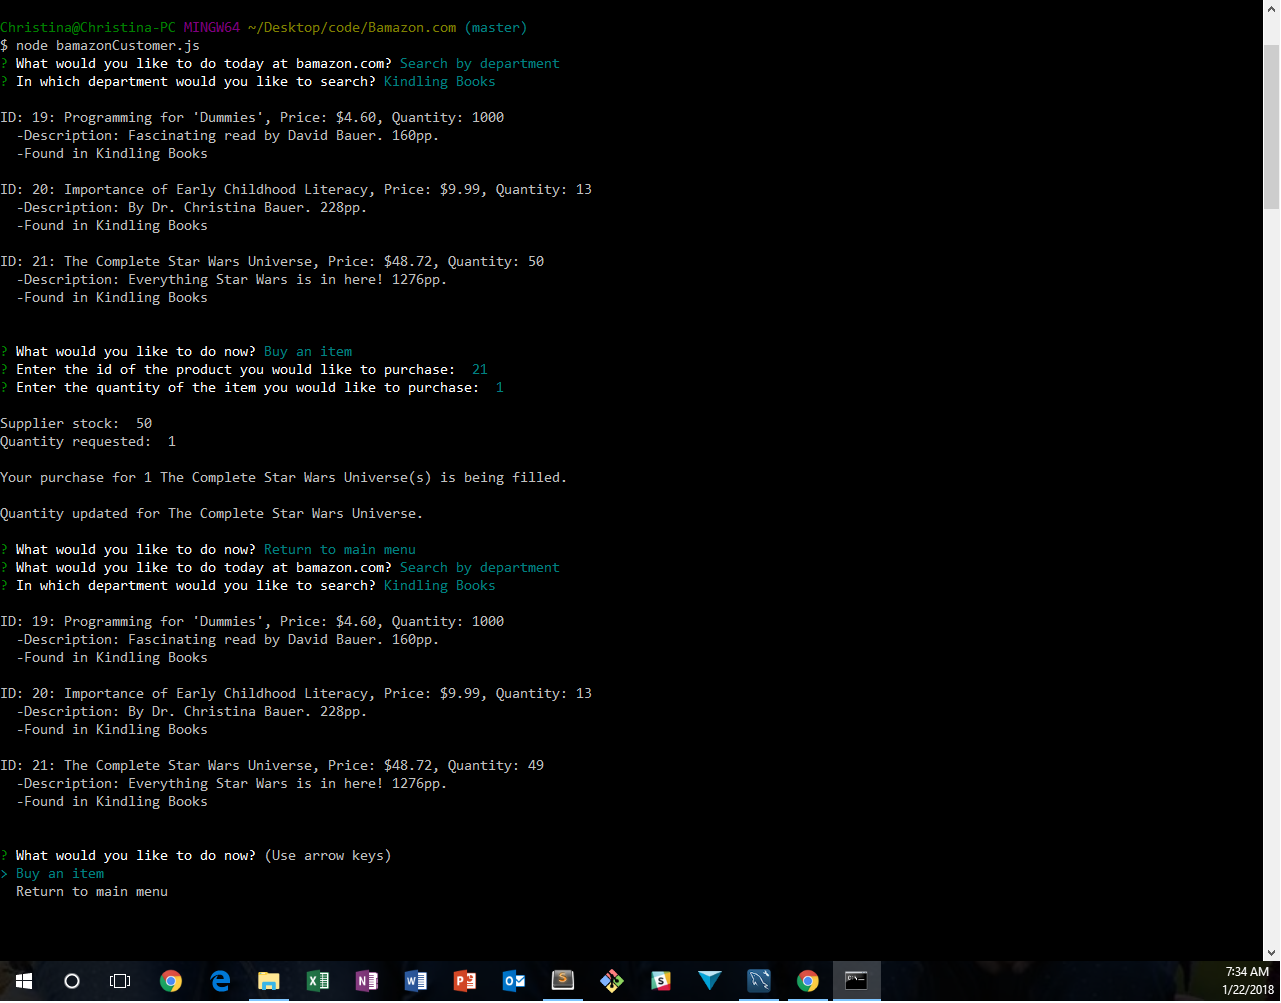
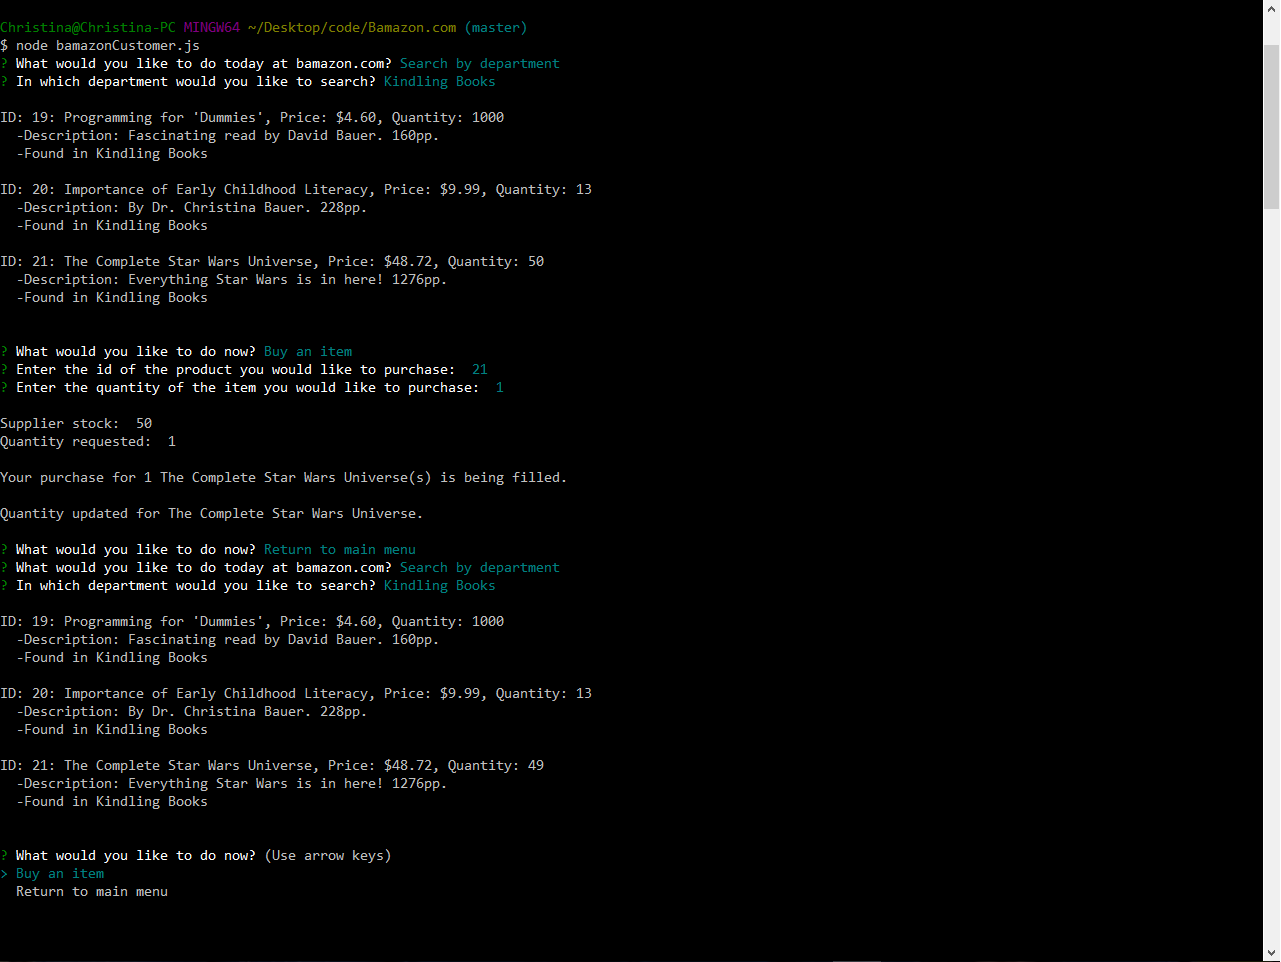
challenge #3 working with npm cli-table

diff --git a/bamazonCustomer.js b/bamazonCustomer.js
@@ -11,22 +11,36 @@ var connection = mysql.createConnection(
 // var departments = ["Toys/Hobbies", "Electronics", "Outdoors", "Men's Clothing", "Women's Clothing",
 //                     "Industrial/Scientific", "Kindling Books"];
 
-var departments = [];  //might need module "promise-mysql"
+var depts = [];  //might need module "promise-mysql"
+var prods = [];
 
 function listDepartments() {
-  connection.query("SELECT DISTINCT department_name FROM products", function(err, res) {
+  connection.query("SELECT department_name FROM departments", function(err, res) {
     if (err) throw err;
     for (var i = 0; i < res.length; i++) {
       // console.log(res[i].department_name)
-      departments.push(res[i].department_name);
+      depts.push(res[i].department_name);
     }
-    // console.log("departments: ", departments);
+    // console.log("depts: ", depts);
   });
-  // console.log("departments: ", departments);
+  // console.log("depts: ", depts);
+}
+
+function listProductIds() {
+  connection.query("SELECT item_id FROM products", function(err, res) {
+    if (err) throw err;
+    for (var i = 0; i < res.length; i++) {
+      // console.log(res[i].department_name)
+      prods.push(res[i].item_id);
+    }
+    // console.log("depts: ", depts);
+  });
+  // console.log("depts: ", depts);
 }
 
 function mainMenu() {
-  console.log("departmentsMainMenu: ", departments);
+  // console.log("prods: ", prods);
+  // console.log("departmentsMainMenu: ", depts);
   inquirer
   .prompt([
     {
@@ -72,7 +86,7 @@ function searchDepartment() {
     {
       type: "list",
       message: "In which department would you like to search?",
-      choices: departments,
+      choices: depts,
       name: "departmentChoice"
     }
   ])
@@ -113,7 +127,7 @@ function searchPriceRange() {
     {
       type: "input",
       message: "Enter the lowest price to search with: ",
-      name: "lowPrice"
+      name: "lowPrice",
     },
     {
       type: "input",
@@ -162,7 +176,15 @@ function buyProduct() {
     {
       type: "input",
       message: "Enter the id of the product you would like to purchase: ",
-      name: "productID"
+      name: "productID",
+      validate: function(input) {
+        var done = this.async();
+        if (prods.indexOf(parseInt(input)) < 0) {
+          done("Please enter a valid product ID.");
+           return;
+        }
+        done(null, true);
+      }
     },
     {
       type: "input",
@@ -176,17 +198,18 @@ function buyProduct() {
       console.log("\nSupplier stock: ", res[0].stock_quantity);
       console.log("Quantity requested: ", inquirerResponse.quantity + "\n");
       if (err) throw err;
-      if (res[0].stock_quantity >= inquirerResponse.quantity) {
+      if (parseInt(res[0].stock_quantity) >= parseInt(inquirerResponse.quantity)) {
         var newQuantity = res[0].stock_quantity - inquirerResponse.quantity;
         console.log("Your purchase for " + inquirerResponse.quantity + " " + res[0].product_name + "(s) is being filled.");
-        var sale = (res[0].price * inquirerResponse.quantity).toFixed(2);
+        var sale = res[0].price.toFixed(2) * parseInt(inquirerResponse.quantity);
         console.log("One click ordering has charged your card for $" + sale);
         updateProduct(newQuantity, inquirerResponse.productID, res[0].product_name);
+        var newSale = res[0].product_sales + sale;
+        updateSales(newSale, inquirerResponse.productID, res[0].product_name);
       } else {
         console.log("Insufficient Quantity.");
         mainOrBuy();
       }
-      
     });
   });
 }
@@ -205,6 +228,25 @@ function updateProduct(newQuantity, productID, productName) {
     function(err, res) {
       if (err) throw err;
       console.log("\nQuantity updated for " + productName + ".\n");
+      // mainOrBuy();
+    }
+  );
+}
+
+function updateSales(sale, productID, productName) {
+  connection.query(
+    "UPDATE products SET ? WHERE ?",
+    [
+      {
+        product_sales: sale
+      },
+      {
+        item_id: productID
+      }
+    ],
+    function(err, res) {
+      if (err) throw err;
+      console.log("Product sales updated for " + productName + ".\n");
       mainOrBuy();
     }
   );
@@ -220,5 +262,6 @@ function renderProducts(data) {
   console.log("\n");
 }
 
-listDepartments();
+listProductIds();
+listDepartments();  //Run listDepartments to populate the choices for departments before mainMenu
 mainMenu();

diff --git a/bamazonCFO.js b/bamazonCFO.js
@@ -1,0 +1,122 @@
+require("dotenv").config();
+var mysql = require("mysql");
+var inquirer = require("inquirer");
+var keys = require("./keys.js");
+var Table = require("cli-table");
+
+var table = new Table({
+    head: ['ID', 'Department', 'Overhead Costs', 'Sales', 'Total Profit']
+  , colWidths: [10, 30, 20, 20, 20]
+});
+
+// create the connection information for the sql database
+var connection = mysql.createConnection(
+	keys.mysqlKeys
+);
+
+var depts = [];  //might need module "promise-mysql"
+
+function listDepartments() {
+	// depts = [];  //Start with an empty array so "All Departments" can be added to the end
+  connection.query("SELECT department_name FROM departments", function(err, res) {
+    if (err) throw err;
+    // console.log("res.length: ", res.length);
+    for (var i = 0; i < res.length; i++) {
+      // console.log(res[i].department_name)
+      depts.push(res[i].department_name);
+    }
+    // depts.push("All Departments");
+    // console.log("depts: ", depts);
+  });
+  // console.log("depts: ", depts);
+}
+
+function mainMenu() {
+  inquirer
+  .prompt([
+    {
+      type: "list",
+      message: "What would you like to do?",
+      choices: ["View Product Sales by Department", "Create New Department", "Exit"],
+      name: "menuChoice"
+    }
+  ])
+  .then(function(inquirerResponse) {
+    switch (inquirerResponse.menuChoice) {
+      case "View Product Sales by Department":
+        viewSales();
+        break;
+      case "Create New Department":
+        newDepartment();
+        break;
+      case "Exit":
+        if (connection) connection.end();
+        console.log("\nConnection to database terminated.");
+        return;
+    }
+  });
+}
+
+function viewSales() {
+  connection.query('SELECT departments.department_id AS ID, departments.department_name ' +
+                      'AS Department, departments.over_head_costs AS "Overhead Costs", ' +
+                      'SUM(products.product_sales) AS Sales FROM departments, products ' +
+                      'WHERE departments.department_name = products.department_name ' +
+                      'GROUP BY Department ORDER BY (ID);', function(err, res) {
+    if (err) throw err;
+    // console.log(res);
+    renderSales(res);
+    mainMenu();
+  });   
+}
+
+function newDepartment() {
+	inquirer
+	.prompt([
+		{
+      type: "input",
+      message: "Enter the name of the new department: ",
+      name: "departmentName"
+    },
+    {
+      type: "input",
+      message: "Enter in the overhead costs for the department: ",
+      name: "costs"
+    },
+    {
+      type: "confirm",
+      message: "Are you sure you want to add this new product?: ",
+      name: "confirm",
+      default: false
+    }
+	])
+	.then(function(inquirerResponse) {
+		if (inquirerResponse.confirm) {
+			connection.query("INSERT INTO departments (department_name, over_head_costs) VALUES (" +
+											"'" + inquirerResponse.departmentName + "', " +
+											"'" + inquirerResponse.costs + "');",
+			function(err, res) {
+				if (err) throw err;
+				console.log("\nNew department added!\n");
+				listDepartments();
+				mainMenu();
+			});
+		} else {
+			console.log("\nDepartment has not been created.\n");
+			mainMenu();
+		}
+	});
+}
+
+function renderSales(data) {
+  for (var i = 0; i < data.length; i++) {
+    var profit = data[i].Sales.toFixed(2) - data[i]["Overhead Costs"].toFixed(2);
+    table.push([data[i].ID, data[i].Department, data[i]["Overhead Costs"], data[i].Sales.toFixed(2), profit.toFixed(2)]);
+    // console.log("ID: " + data[i].ID + " | Department: " + data[i].Department + " | Overhead Costs: " +
+                // data[i]["Overhead Costs"] + " | Sales: " + data[i].Sales.toFixed(2) + " | Total Profit: " + profit.toFixed(2));
+  }
+  console.log(table.toString());
+}
+
+listDepartments();  //Run listDepartments to populate the choices for departments before mainMenu
+mainMenu();

diff --git a/bamazonManager.js b/bamazonManager.js
@@ -8,18 +8,19 @@ var connection = mysql.createConnection(
 	keys.mysqlKeys
 );
 
-var departments = [];
+var depts = [];  //might need module "promise-mysql"
+                  //UPDATE: Running listDepartments() before mainMenu() seems to work
 
 function listDepartments() {
-  connection.query("SELECT DISTINCT department_name FROM products", function(err, res) {
+  connection.query("SELECT department_name FROM departments", function(err, res) {
     if (err) throw err;
     for (var i = 0; i < res.length; i++) {
       // console.log(res[i].department_name)
-      departments.push(res[i].department_name);
+      depts.push(res[i].department_name);
     }
-    // console.log("departments: ", departments);
+    // console.log("depts: ", depts);
   });
-  // console.log("departments: ", departments);
+  // console.log("depts: ", depts);
 }
 
 function mainMenu() {
@@ -105,7 +106,7 @@ function updateProduct(newQuantity, quantityAdded, productID, productName) {
     ],
     function(err, res) {
       if (err) throw err;
-      console.log("\n" + quantityAdded + " items add to stock for " + productName + ".\n");
+      console.log("\n" + quantityAdded + " item(s) add to stock for " + productName + ".\n");
       mainMenu();
     }
   );
@@ -127,7 +128,7 @@ function addNewProduct() {
     {
       type: "list",
       message: "Enter the department for the new product: ",
-      choices: departments,
+      choices: depts,
       name: "department"
     },
     {
@@ -177,5 +178,5 @@ function renderProducts(data) {
   console.log("\n");
 }
 
-listDepartments();
+listDepartments();  //Run listDepartments to populate the choices for departments before mainMenu
 mainMenu();
